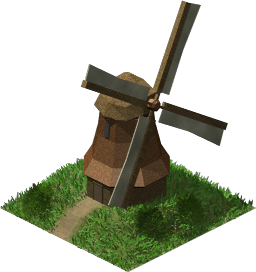
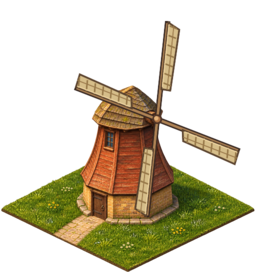
Release City Evolution Preview 27 Hotfix 1

diff --git a/src/lincity-ng/GameView.cpp b/src/lincity-ng/GameView.cpp
@@ -2349,75 +2349,123 @@ void GameView::drawStreetLamps(Painter& painter,MapPoint tile) {
 }
 
 
-void GameView::drawAirportFlights(Painter& painter) {
+void GameView::resetAirportFlights() {
+  airportFlights.clear();
+  flightWaveStarted = -1;
+}
+
+void GameView::planAirportFlights() {
   const auto& world = getWorld();
-  std::vector<const Construction*> airports;
+  airportFlights.clear();
+  flightWaveStarted = world.evolution.visualTime;
+  std::vector<MapPoint> airports;
   for(const auto* building : world.map.constructions)
     if(!building->isDead() && building->constructionGroup->group == GROUP_AIRPORT &&
        static_cast<const CityBusiness*>(building)->operating)
-      airports.push_back(building);
-  std::sort(airports.begin(), airports.end(), [](const auto* a, const auto* b) {
-    return std::tie(a->point.x, a->point.y) < std::tie(b->point.x, b->point.y);
+      airports.push_back(building->point);
+  std::sort(airports.begin(), airports.end(), [](MapPoint a, MapPoint b) {
+    return std::tie(a.x, a.y) < std::tie(b.x, b.y);
   });
+  // Keep both endpoints for the whole flight so a missed operating day
+  // cannot turn an in-flight trip into a different route.
+  for(size_t i = 0; i < airports.size(); ++i)
+    airportFlights.push_back({airports[i], airports[(i+1) % airports.size()], int(i % 5) * 400});
+}
 
-  auto runway = [&](const Construction& airport, bool farEnd) {
-    const auto origin = getScreenPoint(airport.point.e(5).s(5)) - Vector2(384,384)*zoom;
-    return origin + (farEnd ? Vector2(508,97) : Vector2(163,253))*zoom;
+void GameView::drawAirportFlights(Painter& painter) {
+  const auto& world = getWorld();
+  const int now = world.evolution.visualTime;
+  int elapsed = (now - flightWaveStarted + 3600000) % 3600000;
+  if(flightWaveStarted < 0 || elapsed >= (airportFlights.empty() ? 1500 : 30000)) {
+    planAirportFlights();
+    elapsed = 0;
+  }
+
+  constexpr int runwayRollMs = 3200;
+  constexpr int offMapPauseMs = 1200;
+  const Vector2 runwayAxis(345, -156);
+  const Vector2 heading = runwayAxis / std::hypot(runwayAxis.x, runwayAxis.y);
+  // Match the airport sprite's 6x6 anchor and its painted runway centerline.
+  auto threshold = [this](MapPoint airport) {
+    return getScreenPoint(airport.e(5).s(5)) + Vector2(-221, -131)*zoom;
   };
-  const float clock = world.evolution.visualTime / 22000.f;
-  for(size_t i = 0; i < airports.size(); ++i) {
-    const auto& from = *airports[i];
-    const auto* to = airports.size() > 1 ? airports[(i+1) % airports.size()] : nullptr;
-    const float t = std::fmod(clock + float(i)/airports.size(), 1.f);
-    if(t >= .92f) continue;
-    const auto runwayStart = runway(from, false);
-    const auto runwayEnd = runway(from, true);
-    const auto fallback = getScreenPoint(MapPoint(from.point.x+8,-12));
-    Vector2 start = runwayStart;
-    Vector2 finish = runwayEnd;
-    float progress = t/.20f, altitude = 0;
-    if(t >= .20f && t < .72f) {
-      progress = (t-.20f)/.52f;
-      if(to) {
-        start = runwayEnd;
-        finish = runway(*to, false);
-        altitude = std::sin(progress*3.14159265f)*110.f;
-      } else if(progress < .5f) {
-        start = runwayEnd;
-        finish = fallback;
-        progress *= 2;
-        altitude = progress*110.f;
+  auto liveAirport = [&](MapPoint point) {
+    if(!inCity(point)) return false;
+    const auto* building = world.map(point)->construction;
+    return building && !building->isDead() && building->constructionGroup->group == GROUP_AIRPORT;
+  };
+  for(const auto& flight : airportFlights) {
+    const int time = elapsed - flight.delay;
+    if(time < 0 || !liveAirport(flight.departure) || !liveAirport(flight.arrival))
+      continue;
+
+    const bool local = flight.departure == flight.arrival;
+    const Vector2 takeoffStart = threshold(flight.departure);
+    const Vector2 takeoffEnd = takeoffStart + runwayAxis*zoom;
+    const Vector2 landingStart = threshold(flight.arrival);
+    const Vector2 landingEnd = landingStart + runwayAxis*zoom;
+    const Vector2 gap = landingStart - takeoffEnd;
+    const float distance = std::hypot(gap.x, gap.y) / zoom;
+    const int cruiseMs = local ? 18000 : std::clamp(int(distance * 5), 5500, 20000);
+    const int landingTime = runwayRollMs + cruiseMs;
+    Vector2 location, direction = heading;
+    float altitude = 0;
+
+    if(time < runwayRollMs) {
+      const float t = float(time) / runwayRollMs;
+      location = takeoffStart + runwayAxis*(t*t*zoom);
+    } else if(time < landingTime) {
+      Vector2 a = takeoffEnd, d = landingStart;
+      Vector2 startHeading = heading, endHeading = heading;
+      float t = float(time - runwayRollMs) / cruiseMs;
+      if(local) {
+        const int legMs = (cruiseMs - offMapPauseMs) / 2;
+        const int airTime = time - runwayRollMs;
+        if(airTime < legMs) {
+          d = getScreenPoint(MapPoint(flight.departure.x, -9));
+          endHeading = d - a;
+          endHeading = endHeading / std::hypot(endHeading.x, endHeading.y);
+          t = float(airTime) / legMs;
+          altitude = 132 * t * (2-t);
+        } else if(airTime >= legMs + offMapPauseMs) {
+          a = getScreenPoint(MapPoint(-9, flight.arrival.y));
+          startHeading = d - a;
+          startHeading = startHeading / std::hypot(startHeading.x, startHeading.y);
+          t = float(airTime - legMs - offMapPauseMs) / legMs;
+          altitude = 132 * (1-t*t);
+        } else continue;
       } else {
-        start = fallback;
-        finish = runwayStart;
-        progress = 2*progress-1;
-        altitude = (1-progress)*110.f;
+        altitude = 132 * std::sin(t*3.14159265f);
       }
-    } else if(t >= .72f) {
-      start = to ? runway(*to, false) : runwayStart;
-      finish = to ? runway(*to, true) : runwayEnd;
-      progress = (t-.72f)/.20f;
-    }
-    const auto dir = finish-start;
-    const float length = std::hypot(dir.x, dir.y);
-    if(length < 1) continue;
-    const auto location = start + dir*progress - Vector2(0,(altitude+3)*zoom);
-    if(location.x < -40 || location.y < -40 ||
-       location.x > getWidth()+40 || location.y > getHeight()+40) continue;
-    const Vector2 f = dir*(zoom/length), side(-f.y,f.x);
-    Vector2 body[] = {location+f*14, location+f*9+side*3, location-f*13+side*2,
-                      location-f*16, location-f*13-side*2, location+f*9-side*3};
-    Vector2 wing[] = {location+f*3, location-f*5+side*13, location-f*9+side*13,
-                      location-f*5, location-f*9-side*13, location-f*5-side*13};
-    Vector2 tail[] = {location-f*9,location-f*14+side*6,location-f*16,location-f*14-side*6};
-    painter.setFillColor(Color(191,211,224));
-    painter.fillPolygon(6,wing);
-    painter.setFillColor(Color(36,105,135));
-    painter.fillPolygon(4,tail);
-    painter.setFillColor(Color(244,244,235));
-    painter.fillPolygon(6,body);
-    painter.setLineColor(Color(29,82,114));
-    painter.drawLine(location+f*9,location-f*8);
+
+      // Cubic Bézier handles align with the runway direction on departure
+      // and arrival, including when the destination lies behind the runway.
+      const Vector2 span = d - a;
+      const float length = std::hypot(span.x, span.y) / zoom;
+      const float handle = std::clamp(length * .32f, 120.f, 560.f) * zoom;
+      const Vector2 b = a + startHeading*handle;
+      const Vector2 c = d - endHeading*handle;
+      const float u = 1-t;
+      location = a*(u*u*u) + b*(3*u*u*t) + c*(3*u*t*t) + d*(t*t*t);
+      direction = (b-a)*(u*u) + (c-b)*(2*u*t) + (d-c)*(t*t);
+    } else if(time < landingTime + runwayRollMs) {
+      const float t = float(time - landingTime) / runwayRollMs;
+      location = landingStart + (landingEnd-landingStart)*(t*(2-t));
+    } else continue;
+
+    location -= Vector2(0, (altitude+9)*zoom);
+    const float margin = 56*zoom;
+    if(location.x < -margin || location.y < -margin ||
+       location.x > getWidth()+margin || location.y > getHeight()+margin)
+      continue;
+
+    // Sixteen headings of the same airliner painted on the parked apron.
+    const int frame = (int(std::lround(std::atan2(direction.y, direction.x) / .39269908f)) + 16) % 16;
+    Texture* aircraft = texture_manager->load("images/aircraft/airliner-" + std::to_string(frame) + ".png");
+    const Vector2 radius(aircraft->getWidth()*zoom/2, aircraft->getHeight()*zoom/2);
+    setNightTint(*aircraft, world.evolution.darkness());
+    painter.drawStretchTexture(aircraft, Rect2D(location-radius, location+radius));
+    aircraft->setLighting(255, 255, 255);
   }
 }
 

diff --git a/tests/city_evolution_integration.cpp b/tests/city_evolution_integration.cpp
@@ -27,11 +27,20 @@ int main(int argc,char**argv) {
   w->total_money=100000000;
   w->tech_level=MAX_TECH_LEVEL;
   Message::ptr reason;
+  require(!universityConstructionGroup.can_build(*w,reason),"university without schools");
+  const auto withoutSchools = dynamic_message_cast<CityRequirementMessage>(reason);
+  require(withoutSchools && withoutSchools->text.find("have 0 and need 4") != std::string::npos,
+          "university error must explain the first school requirement");
   require(!techCampusConstructionGroup.can_build(*w,reason),"campus without university");
   require(!cafeConstructionGroup.can_build(*w,reason),"cafe without demand");
   for(int i=0;i<8;++i) w->buildConstruction(residenceLLConstructionGroup,MapPoint(2+i*4,2));
   for(int i=0;i<4;++i) w->buildConstruction(schoolConstructionGroup,MapPoint(2+i*5,20));
+  require(universityConstructionGroup.can_build(*w,reason),"one university allowed with four schools");
   w->buildConstruction(universityConstructionGroup,MapPoint(2,8));
+  require(!universityConstructionGroup.can_build(*w,reason),"second university needs more schools");
+  const auto secondUniversity = dynamic_message_cast<CityRequirementMessage>(reason);
+  require(secondUniversity && secondUniversity->text.find("have 4 and need 8") != std::string::npos,
+          "university error must explain the additional school requirement");
   require(cafeConstructionGroup.can_build(*w,reason),"cafe with demand");
   require(techCampusConstructionGroup.can_build(*w,reason),"campus with university");
   w->buildConstruction(warehouseConstructionGroup,MapPoint(10,10));

diff --git a/src/lincity/modules/university.cpp b/src/lincity/modules/university.cpp
@@ -24,6 +24,7 @@
 
 #include "university.hpp"
 
+#include <fmt/format.h>
 #include <libxml++/parsers/textreader.h>  // for TextReader
 #include <libxml/xmlwriter.h>             // for xmlTextWriterWriteElement
 #include <string>                         // for basic_string, allocator
@@ -58,10 +59,12 @@ Construction *UniversityConstructionGroup::createConstruction(World& world) {
 bool
 UniversityConstructionGroup::can_build(const World& world, Message::ptr& message
 ) const {
-  if(world.stats.groupCount[GROUP_SCHOOL]/4
-    - world.stats.groupCount[GROUP_UNIVERSITY] < 1
-  ) {
-    message = NotEnoughStudentsMessage::create();
+  const int schools = world.stats.groupCount[GROUP_SCHOOL];
+  const int required = 4 * (world.stats.groupCount[GROUP_UNIVERSITY] + 1);
+  if(schools < required) {
+    message = CityRequirementMessage::create(fmt::format(
+      _("Universities require four elementary schools each. You have {} and need {} in total to build another university."),
+      schools, required));
     return false;
   }
 

diff --git a/src/lincity-ng/ButtonPanel.cpp b/src/lincity-ng/ButtonPanel.cpp
@@ -316,7 +316,10 @@ ButtonPanel::updateTech() {
         }
       }
     }
-    else if(tool->button->isEnabled() || tool->button->getTooltip() == "") {
+    else {
+      auto requirement = dynamic_message_cast<CityRequirementMessage>(msg);
+      if(!requirement && !tool->button->isEnabled() && !tool->button->getTooltip().empty())
+        continue;
       tool->button->enable(false);
       if(tool == tool->menu->activeTool) {
         tool->menu->button->enable(false);
@@ -340,10 +343,11 @@ ButtonPanel::updateTech() {
           << _("$") << op.constructionGroup->getCosts(world)
           << ")";
       }
-      else {
-        // TODO: handle NotEnoughStudentsMessage
+      else if(requirement) {
+        os << "\n" << requirement->text;
       }
-      tool->button->setTooltip(os.str());
+      if(tool->button->getTooltip() != os.str())
+        tool->button->setTooltip(os.str());
     }
   }
   for(auto& m:menus)m.first->enable(true);

diff --git a/src/lincity-ng/GameView.hpp b/src/lincity-ng/GameView.hpp
@@ -98,6 +98,7 @@ public:
     bool inCity( MapPoint tile );
 
     void setGame(Game *game);
+    void resetAirportFlights();
 
     bool textures_ready;
     //bool economyGraph_open;
@@ -109,6 +110,13 @@ private:
     std::unordered_multimap<int, size_t> streetActorsByTile;
     int lastAtmosphereTime = -1, trafficRefresh = 0;
     void drawCityLife(Painter& painter);
+    struct AirportFlight {
+        MapPoint departure, arrival;
+        int delay;
+    };
+    std::vector<AirportFlight> airportFlights;
+    int flightWaveStarted = -1;
+    void planAirportFlights();
     void drawAirportFlights(Painter& painter);
     void drawCircuitRaces(Painter& painter);
     void drawTransit(Painter&,int modeFilter=-1,MapPoint tile=MapPoint(-1,-1));

diff --git a/src/lincity-ng/Game.cpp b/src/lincity-ng/Game.cpp
@@ -577,6 +577,7 @@ void Game::showCityAdvisors() {
 void
 Game::setWorld(std::unique_ptr<World>&& world) {
   this->world = std::move(world);
+  gameview->resetAirportFlights();
   autosavePlayTime = 0;
   this->world->transit.update(*this->world,false);
   // Old forced sky/weather modes reset whenever a city is entered.

diff --git a/src/lincity-ng/release_label.hpp b/src/lincity-ng/release_label.hpp
@@ -3,4 +3,4 @@
 // it verifies the main menu text, the Windows version resource and the changelog agree with this file.
 #pragma once
 #define CE_RELEASE_NUMBER 27
-#define CE_RELEASE_LABEL "Preview 27"
+#define CE_RELEASE_LABEL "Preview 27 Hotfix 1"

diff --git a/CHANGELOG.md b/CHANGELOG.md
@@ -11,6 +11,13 @@
 - Brighten terrain and building windows after dark, add more streetlamps in developed areas and light powered airports and circuits.
 - Add a fire-location link to the alert and keep arriving crews spraying long enough to see them at work.
 
+### Hotfix 1
+
+- Explain the school requirement when university placement is blocked. Each university needs four elementary schools.
+- Keep each airliner on its assigned flight, with runway rolls and smooth departure and arrival turns. Use the same airliner and scale as the parked aircraft.
+- Redraw the local windmill with a timber tower, masonry base and animated cloth sails while preserving its footprint and sprite anchors.
+- Refresh Ubuntu package indexes from the main Ubuntu archive before the AppImage job installs dependencies.
+
 ## City Evolution — Preview 26
 
 - Audit update: separated airport and circuit receipts in the finance panel, enlarged the building report, prioritized missing transport access, added both venues to the help index and extended report tests to prerequisite-gated buildings.
